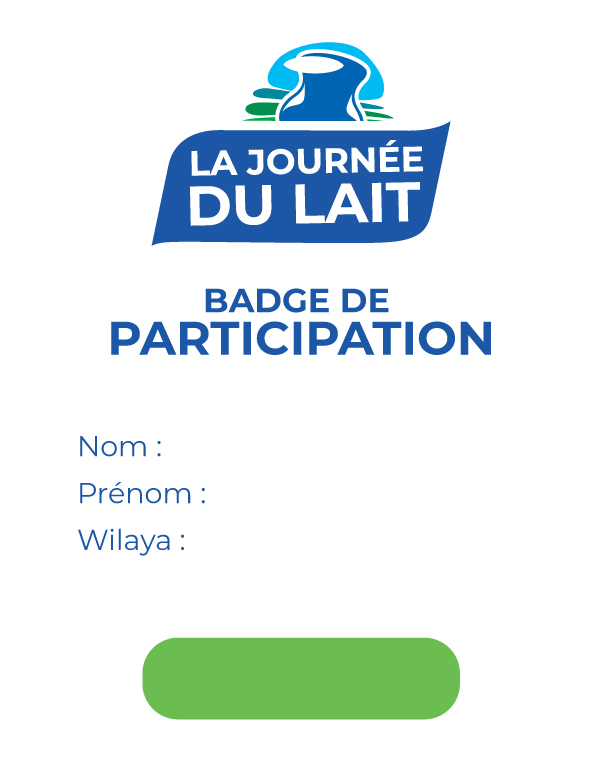
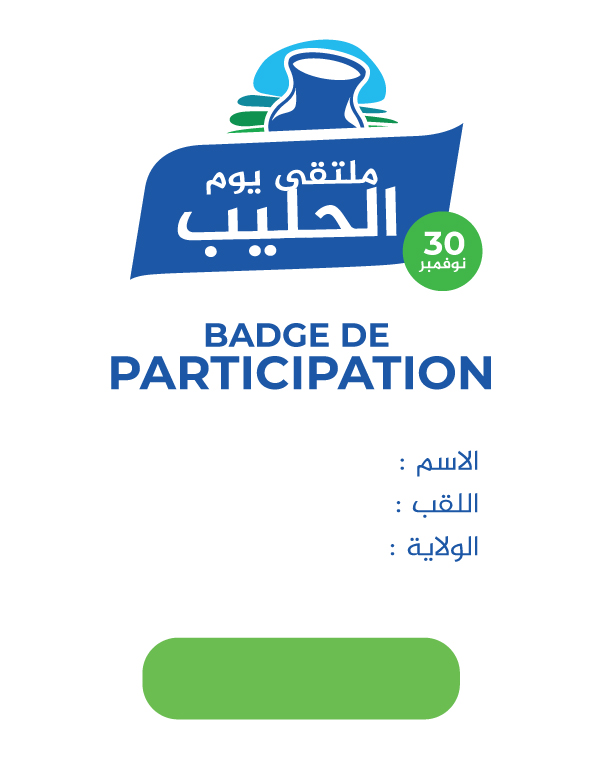
mdl event

diff --git a/resources/views/eleveur.blade.php b/resources/views/eleveur.blade.php
@@ -8,40 +8,28 @@ Portfolio: https://themeforest.net/user/nobleui/portfolio
 Contact: nobleui123@gmail.com
 License: For each use you must have a valid license purchased only from above link in order to legally use the theme for your project.
 -->
-<html lang="en">
+<html lang="ar "dir="rtl">
 <head>
 	<meta charset="UTF-8">
 	<meta name="viewport" content="width=device-width, initial-scale=1.0">
 	<meta http-equiv="X-UA-Compatible" content="ie=edge">
-  <meta name="description" content="Responsive HTML Admin Dashboard Template based on Bootstrap 5">
-	<meta name="author" content="NobleUI">
-	<meta name="keywords" content="nobleui, bootstrap, bootstrap 5, bootstrap5, admin, dashboard, template, responsive, css, sass, html, theme, front-end, ui kit, web">
+ 
+	<title>ملتقى يوم الحليب</title>
 
-	<title>NobleUI - HTML Bootstrap 5 Admin Dashboard Template</title>
+  <link rel="stylesheet" href="https://cdn.jsdelivr.net/npm/bootstrap@5.0.2/dist/css/bootstrap.rtl.min.css" integrity="sha384-gXt9imSW0VcJVHezoNQsP+TNrjYXoGcrqBZJpry9zJt8PCQjobwmhMGaDHTASo9N" crossorigin="anonymous">
 
-  <!-- Fonts -->
+
   <link rel="preconnect" href="https://fonts.googleapis.com">
-  <link rel="preconnect" href="https://fonts.gstatic.com" crossorigin>
-  <link href="https://fonts.googleapis.com/css2?family=Roboto:wght@300;400;500;700;900&display=swap" rel="stylesheet">
-  <!-- End fonts -->
+<link rel="preconnect" href="https://fonts.gstatic.com" crossorigin>
+<link href="https://fonts.googleapis.com/css2?family=Cairo:wght@300&family=Montserrat:wght@400;500&display=swap" rel="stylesheet">
 
-	<!-- core:css -->
-	<link rel="stylesheet" href="{{asset('assets/vendors/core/core.css')}}">
-	<!-- endinject -->
+	
 
-	<!-- Plugin css for this page -->
-	<!-- End plugin css for this page -->
 
-	<!-- inject:css -->
-	<link rel="stylesheet" href="{{asset('/assets/fonts/feather-font/css/iconfont.css')}}">
-	<link rel="stylesheet" href="{{asset('/assets/vendors/flag-icon-css/css/flag-icon.min.css')}}">
-	<!-- endinject -->
 
-  <!-- Layout styles -->  
-	<link rel="stylesheet" href="{{asset('/assets/css/demo1/style.css')}}">
-  <!-- End layout styles -->
+  
 
-  <link rel="shortcut icon" href="{{asset('/assets/images/favicon.png')}}" />
+  <link rel="shortcut icon" href="{{asset('/assets/images/faviconmdl.png')}}" />
   <meta name="csrf-token" content="{{ csrf_token() }}">
 </head>
 
@@ -58,7 +46,11 @@ License: For each use you must have a valid license purchased only from above li
     font-size: 13px;
     padding: 0;
    
+
   }
+ 
+
+  
 </style>
 <body>
 	<div class="main-wrapper">
@@ -67,7 +59,7 @@ License: For each use you must have a valid license purchased only from above li
 
 				
 				<div class="card col-md-8">
-            <form method="POST" action="{{url('register-eleveur')}}">
+            <form method="POST" action="{{url('journeedulait')}}">
                 @csrf
                
                 <div class="col-md-12 ps-md-0">
@@ -77,40 +69,42 @@ License: For each use you must have a valid license purchased only from above li
                       <img src="{{asset('mdltheme/logo.jpg')}}" alt="">
                     </div>
                     
-                    <h5 class="text-muted fw-normal">Bienvenue sur la page d'enregistrement de <span class="title"> La journnée du lait</span></h5>
-                    <h5 class=" badge fw-normal mb-3 ">Vous pouvez dès à présent avoir votre badge </h5>
+                    <h5 class="text-muted fw-normal">مرحبا بكم في صفحة التسجيل الخاصة  <span class="title"> بملتقى يوم الحليب</span> يوم 30 نوفمبر بفندق رونيسانس تلمسان</h5>
+                    <h5 class=" badge fw-normal mb-3 "> عند اتمام التسجيل ستظهر لكم شارة الدخول الخاصة بكم! يرجى الاحتفاظ بها  </h5>
                     <form class="forms-sample">
                       <div class="row">
-                      <div class="col-md-6 mb-3">
-                        <label for="exampleInputUsername1" class="form-label">Nom* :</label>
-                        <input type="text" class="form-control @error('nom') is-invalid @enderror" name="nom" value = "{{old('nom')}}" placeholder="Nom" required>
-                        @error('nom')
-                        <span class="invalid-feedback" role="alert">
-                            <strong>{{ $message }}</strong>
-                        </span>
-                       @enderror
-                      </div>
-                      <div class="col-md-6 mb-3">
-                        <label for="userEmail" class="form-label">Prenom* :</label>
-                        <input type="text" class="form-control @error('prenom') is-invalid @enderror" name="prenom" value="{{old('prenom')}}"  placeholder="Prenom" required>
+                        <div class="col-md-6 mb-3">
+                          <label for="userEmail" class="form-label">الإسم* :</label>
+                        <input type="text" class="form-control @error('prenom') is-invalid @enderror" name="prenom" value="{{old('prenom')}}"  placeholder="الأسم" required>
                         @error('prenom')
                         <span class="invalid-feedback" role="alert">
                             <strong>{{ $message }}</strong>
                         </span>
                        @enderror
                       </div>
+                      <div class="col-md-6 mb-3">
+                        <label for="exampleInputUsername1" class="form-label">اللّقب* :</label>
+                        <input type="text" class="form-control @error('nom') is-invalid @enderror" name="nom" value = "{{old('nom')}}" placeholder="اللّقب" required>
+                        @error('nom')
+                        <span class="invalid-feedback" role="alert">
+                            <strong>{{ $message }}</strong>
+                        </span>
+                       @enderror
+                      </div>
+                     
                         </div>
 
                         <div class="row mb-3">
                             <div class="col-md-12">
-                             <label for="exampleFormControlSelect1" class="form-label">Vous êtes* :</label>
+                             <label for="exampleFormControlSelect1" class="form-label">هل أنتم* :</label>
 					                        <select class="form-select" name="type"  class="form-control input-default  @error('type') is-invalid @enderror" id="exampleFormControlSelect1" required>
                                    
                                   
-                                    <option  value="eleveur" @if (old('type') == "eleveur" ) selected @endif  >Eleveur</option>
-                                    <option  value="collecteur" @if (old('type') == "collecteur" ) selected @endif  >Collecteur</option>
-                                    <option  value="veterinaire" @if (old('type') == "veterinaire" ) selected @endif  >Vétérinaire</option>
-                                    <option  value="autre" @if (old('type') == "autre" ) selected @endif  >Autre</option>
+                                    <option  value="مربي" @if (old('type') == "مربي" ) selected @endif  >مربي</option>
+                                    <option  value="فلاح" @if (old('type') == "فلاح" ) selected @endif  >فلاح</option>
+                                    <option  value="جامع الحليب" @if (old('type') == "جامع الحليب" ) selected @endif>جامع الحليب</option>
+                                    <option  value="بيطري" @if (old('type') == "بيطري" ) selected @endif  >بيطري</option>
+                                    <option  value="مشارك" @if (old('type') == "مشارك" ) selected @endif  >مشارك </option>
                                 @error('type')
                                 <span class="invalid-feedback" role="alert">
                                     <strong>{{ $message }}</strong>
@@ -123,10 +117,10 @@ License: For each use you must have a valid license purchased only from above li
 
                         <div class="row ">
                             <div class="col-md-6 mb-3">
-                            <label for="exampleFormControlSelect1" class="form-label">Wilaya* :</label>
+                            <label for="exampleFormControlSelect1" class="form-label">الولاية* :</label>
 								             <select class="form-select select-wilaya" name="wilaya"  class="form-control input-default   @error('wilaya') is-invalid @enderror" required >
                                    @foreach($wilayas as $wilaya)
-                                   <option  value="{{$wilaya->wilaya_name_ascii}}" @if (old('wilaya') == $wilaya->wilaya_name_ascii) selected @endif    >{{$wilaya->wilaya_name_ascii}}</option>
+                                   <option  value="{{$wilaya->wilaya_name}}" @if (old('wilaya') == $wilaya->wilaya_name) selected @endif    >{{$wilaya->wilaya_name}}</option>
                                     @endforeach
                                 @error('wilaya')
                                 <span class="invalid-feedback" role="alert">
@@ -137,7 +131,7 @@ License: For each use you must have a valid license purchased only from above li
                                
                             </div>
                             <div class="col-md-6  mb-3">
-                                <label for="exampleFormControlSelect1" class="form-label">Commune* :</label>
+                                <label for="exampleFormControlSelect1" class="form-label">البلدية* :</label>
 								                <select class="form-select" name="commune" id="select-commune" class="form-control input-default " required >
                          
                                 </select>
@@ -147,19 +141,19 @@ License: For each use you must have a valid license purchased only from above li
                         </div>
                         <div class="mb-4">
                             <label class="form-check-label" for="authCheck">
-                                Connaissez vous la maison du lait ?
+                                هل تعرفون مسبقا دار الحليب؟
                               </label>
                               <div class="row mt-3" style="margin-left:1px !important; ">
                                 <div class="form-check col-2">
-                                  <input class="form-check-input" type="radio" name="check" value="oui" id="flexRadioDefault1" checked>
+                                  <input class="form-check-input" type="radio" name="check" value="نعم" id="flexRadioDefault1" checked>
                                   <label class="form-check-label" for="flexRadioDefault1">
-                                  Oui
+                                  نعم
                                   </label>
                                 </div>
                                 <div class="form-check col-2">
-                                  <input class="form-check-input" type="radio" name="check" value="non" id="flexRadioDefault2" >
+                                  <input class="form-check-input" type="radio" name="check" value="لا" id="flexRadioDefault2" >
                                   <label class="form-check-label" for="flexRadioDefault2">
-                                    Non
+                                    لا
                                   </label>
                                 </div>
                               </div>
@@ -167,7 +161,7 @@ License: For each use you must have a valid license purchased only from above li
                       
                       
                         <div class="d-flex align-items-center justify-content-center">
-                          <button class="btn btn-primary" type="submit">Inscrire et obtenir votre badge</button>
+                          <button class="btn btn-primary" type="submit">سجل وأحصل على شارة الدخول </button>
                         </div>
                       
                        
@@ -183,6 +177,7 @@ License: For each use you must have a valid license purchased only from above li
 		</div>
 	</div>
 
+  <script src="https://cdn.jsdelivr.net/npm/bootstrap@5.0.2/dist/js/bootstrap.bundle.min.js" integrity="sha384-MrcW6ZMFYlzcLA8Nl+NtUVF0sA7MsXsP1UyJoMp4YLEuNSfAP+JcXn/tWtIaxVXM" crossorigin="anonymous"></script>
 	<!-- core:js -->
 	<script src="{{asset('/assets/vendors/core/core.js')}}"></script>
 	<!-- endinject -->
@@ -213,18 +208,20 @@ License: For each use you must have a valid license purchased only from above li
 			$.ajax({
 				url: '/get-commune/' + name,
 				type: "GET",
+
 				success: function (res) {
           
         
 					$.each(res, function(i, res) {
 
-            data = data + '<option value="'+ res.commune_name_ascii+ '">'+ res.commune_name_ascii + '</option>';
+            data = data + '<option value="'+ res.commune_name+ '">'+ res.commune_name + '</option>';
             
 					});
 
           $('#select-commune').html(data);
 				}
 			});
+
 
      
 			

diff --git a/resources/views/main-template.blade.php b/resources/views/main-template.blade.php
@@ -32,70 +32,26 @@ License: For each use you must have a valid license purchased only from above li
 
 <style>
 
-.img{
-	position: absolute;
-	height: 100%;
-	width: 100%;
-}
-.type{
-	color: #ffff;
-	z-index: 100;
-  	position: absolute;
-	top: 430px;
-	text-transform: capitalize;
-	font-family: 'Cairo', sans-serif;
-}
-.name{
-	color: rgb(114, 114, 114);
-	z-index: 100;
-  	position: absolute;
-	top: 289px;
-	right: 146px;
-	font-family: 'Cairo', sans-serif;
-}
-.last{
-	color: rgb(114, 114, 114);
-	z-index: 100;
-  	position: absolute;
-	top: 317px;
-	right: 146px;
-	font-family: 'Cairo', sans-serif;
-}
-.wilaya{
-	color: rgb(114, 114, 114);
-	z-index: 100;
-  	position: absolute;
-	top: 345px;
-	right: 146px;
-	font-family: 'Cairo', sans-serif;
-}
 
-.alert-success {
-    color: #3A7024 !important;
-    background-color: #BFE2B0 !important;
-    border-color: #6CBCBFE2B050 !important;
-}
+
+
+
+
 
 
 </style>
 <body>
 	<div class="main-wrapper">
-		<div class="alert alert-success" role="alert">
-			تم التسجيل بنجاح ! سعداء بالالتقاء بكم جميعًا، يرجى الاحتفاظ بالشارة الظاهرة في الأسفل 
-		</div>
+		
 		<div class="page-wrapper full-page">
 			<div class="page-content d-flex align-items-center justify-content-center">
 
 				
 				
-				<div class="card" style="height: 519px ; width : 400px;">
-                    <img src="{{asset('mdltheme/Badge.jpg')}}"  class="img" alt="">
-					<h4 class="name ">{{$prenom}}</h4>
-					<h4 class="last ">{{$nom}}</h4>
-					<h4 class="wilaya ">{{$wilaya}}</h4>
-					<div class="d-flex align-items-center justify-content-center">
-						<h3 class="type ">{{$type}}</h3>
-					</div>
+				<div class="card" style="height: 686px ; width : 600px;">
+                    <img src="{{asset('mdltheme/main.jpg')}}"  class="img" alt="">
+					
+					
 					
 				</div>
 

diff --git a/routes/web.php b/routes/web.php
@@ -23,7 +23,7 @@ use App\Http\Controllers\ProfilmilkcheckController;
 */
 
 Route::get('/', function () {
-    return view('welcome');
+    return view('main-template');
 });
 Route::get('/login-milkcheck', function () {
     return view('auth/login-milkcheck');
@@ -43,7 +43,7 @@ Route::resource('milkcheck/vendeurs', VendeurController::class);
 Route::resource('milkcheck/achats', AchatController::class);
 Route::resource('milkcheck/profil', ProfilmilkcheckController::class);
 Route::resource('milkcheck', MilkchecController::class);
-Route::resource('register-eleveur', EleveurController::class);
+Route::resource('journeedulait', EleveurController::class);
 Route::resource('dashboard-admin/particuliers', AdminController::class);
 Route::resource('dashboard-admin/categories', CategorieController::class);
 Route::resource('dashboard-admin/produits', ProduitController::class);
@@ -59,6 +59,8 @@ Route::get('/home', [App\Http\Controllers\HomeController::class, 'index'])->name
 Route::get('/register-pro', function () {
     return view('professionel/register-pro');
 });
+
+
 
 Route::get('/register-particulier', function () {
     return view('particulier.register-particulier');

diff --git a/app/Http/Controllers/EleveurController.php b/app/Http/Controllers/EleveurController.php
@@ -12,7 +12,7 @@ class EleveurController extends Controller
 {
     //
     public function index(){
-        $wilayas = Citie::distinct()->get('wilaya_name_ascii');
+        $wilayas = Citie::distinct()->get('wilaya_name');
        
         return view('eleveur',compact('wilayas'));
     }
@@ -42,12 +42,13 @@ class EleveurController extends Controller
         $prenom =  $eleveur->prenom;
         $wilaya =  $eleveur->wilaya;
         $type =  $eleveur->type;
-        return view('badge',compact('nom','prenom','wilaya','type')); 
+        return view('badge',compact('nom','prenom','wilaya','type'))
+        ->with('success','تم التسجيل بنجاح ! سعداء بالالتقاء بكم جميعًا، يرجى الاحتفاظ بالشارة الظاهرة في الأسفل ');; 
 
     }
 
     public function selectCommune($name){
-        $communes = Citie::where('wilaya_name_ascii',$name)->get();
+        $communes = Citie::where('wilaya_name',$name)->get();
         return $communes;
     }
 }
